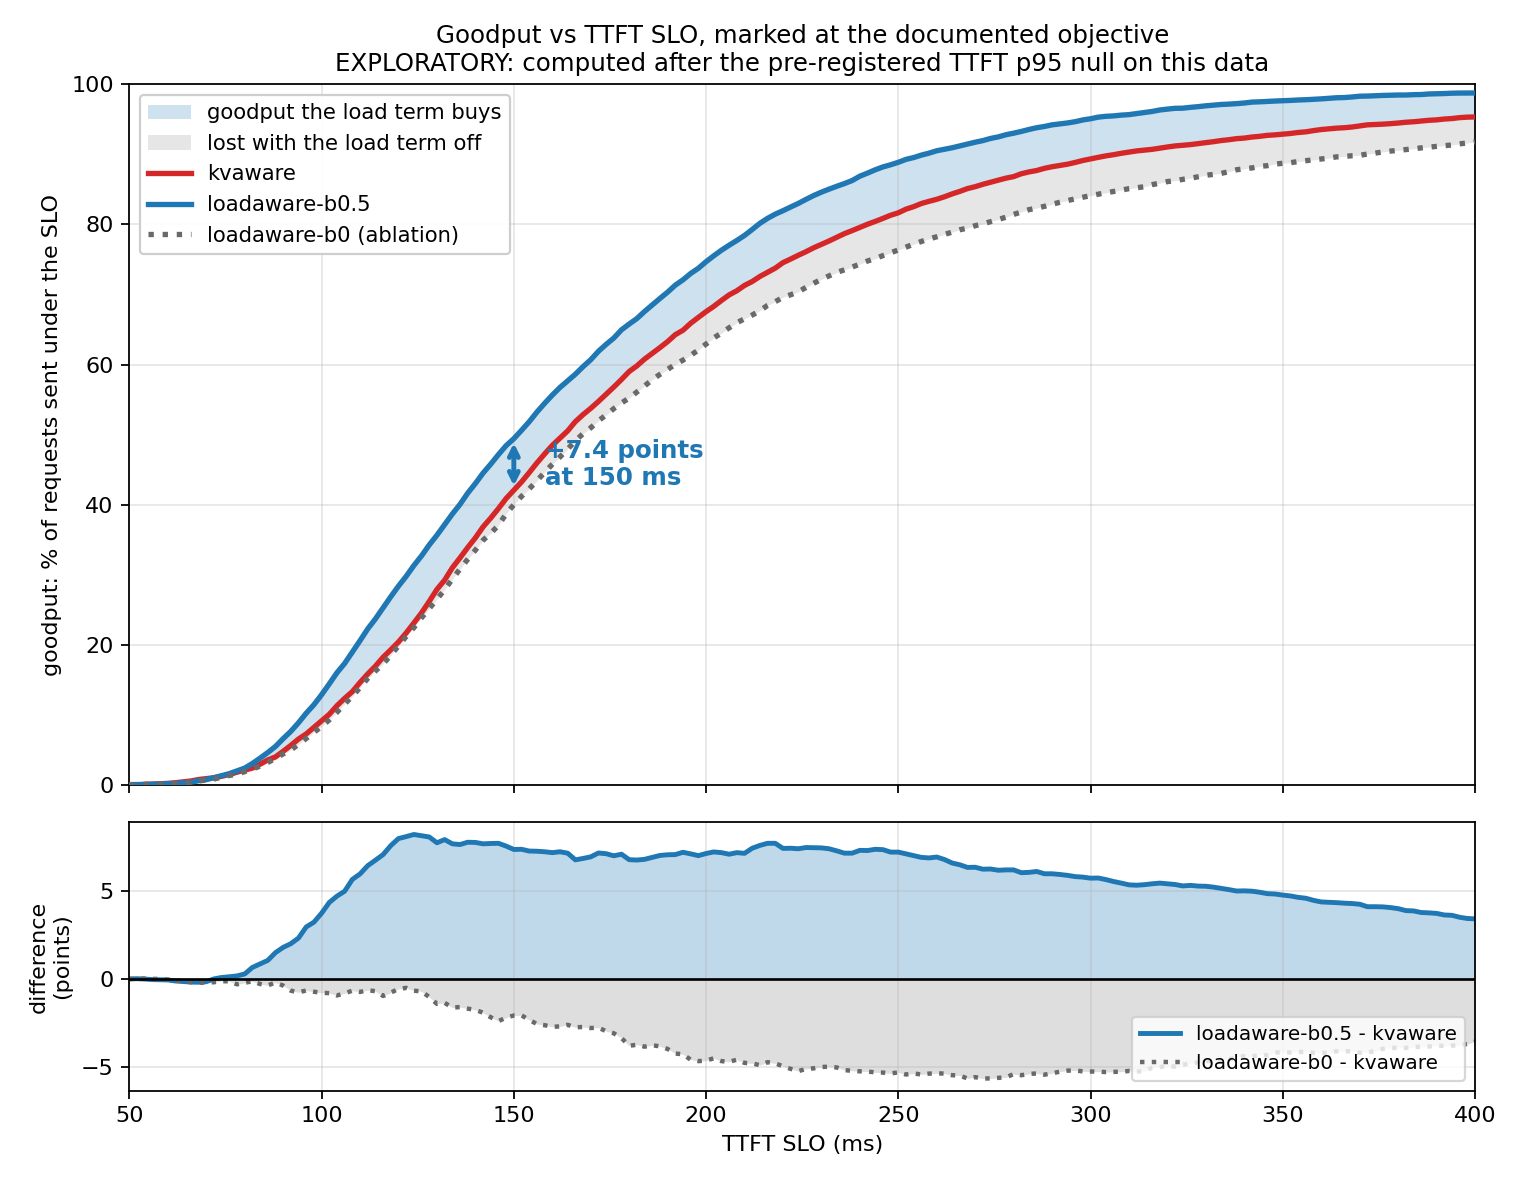
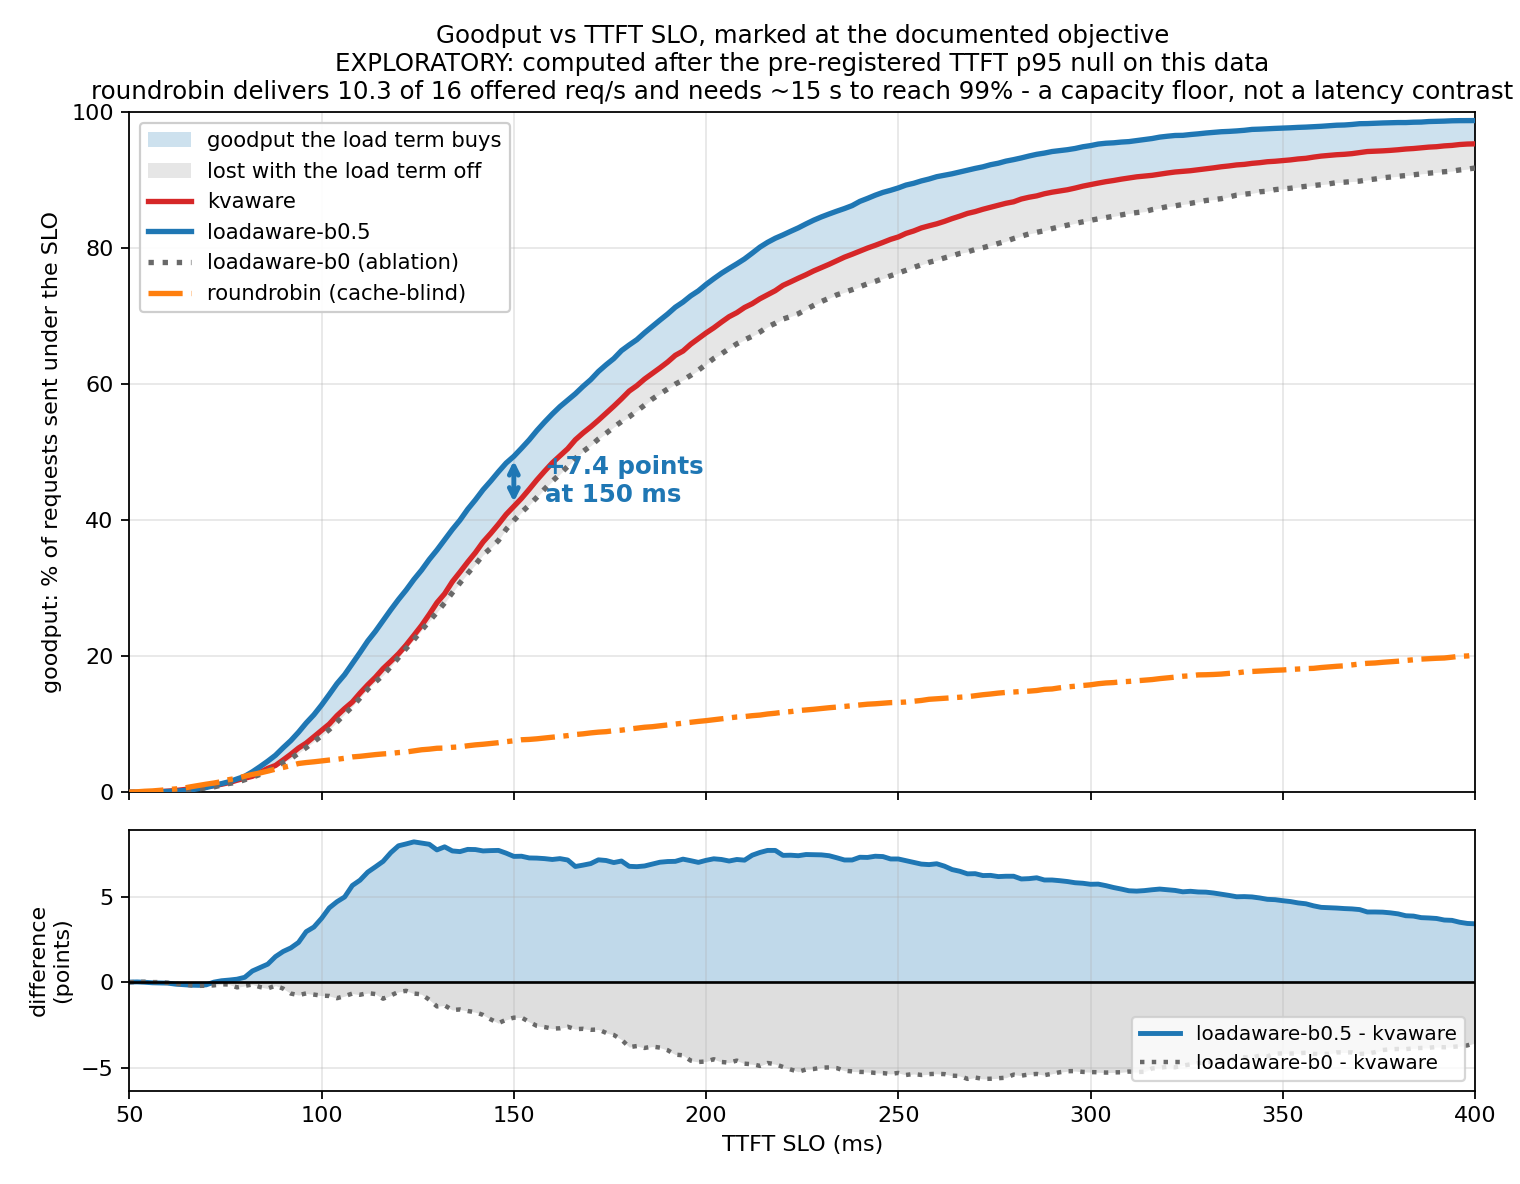
figs: roundrobin as the capacity floor on fig12 (#31)
Goodput's denominator is requests sent, so a saturated arm is comparable here
and on no other figure: falling behind counts as missed rather than being
conditioned away as it would be under p95.

Passed via --comparator rather than as a positional run. In cells it reaches
every figure and its 11 s p95 flattens fig1's whole beta curve; scoped this way
the other eleven regenerate byte-identical.

diff --git a/benchmarks/plot_results.py b/benchmarks/plot_results.py
@@ -26,7 +26,7 @@ from __future__ import annotations
 import argparse
 import json
 import os
-from typing import Dict, List
+from typing import Dict, List, Optional
 
 import matplotlib
 
@@ -625,13 +625,31 @@ def fig_utilization(cells: List[Dict], out: str) -> None:
 GOODPUT_SLOS_MS = range(50, 401, 2)
 
 
-def goodput_curves(cells: List[Dict], cand: str, base: str, ablation: str) -> Dict:
-    """Mean per-seed goodput vs objective, for the three cells fig12 draws.
+def goodput_curves(cells: List[Dict], cand: str, base: str, ablation: str,
+                   comparator: Optional[Dict] = None) -> Dict:
+    """Mean per-seed goodput vs objective, for the cells fig12 draws.
 
     Separated from the drawing so the series is a value fig_goodput can hand on:
     `reproduce.sh` diffs the numbers behind every figure precisely because PNGs
     are not byte-comparable, and a curve that only exists as pixels is a
     committed figure with nothing checking it.
+
+    `comparator` is an already-loaded cell passed in from outside, NOT a name
+    looked up in `cells`, and that is load-bearing. roundrobin is a descriptive
+    framing cell rather than part of the beta grid (benchmarks/README.md, "Sweep
+    design"). Putting it in `cells` puts it in EVERY figure, and its 11 s p95
+    then compresses the y-axis of fig1 - the centerpiece - until the whole beta
+    curve is a flat line on the floor. Measured, not hypothetical: that is what
+    the first attempt at this produced. It reaches exactly one figure by
+    construction, and a sweep with no roundrobin cell still plots.
+
+    Including a SATURATED arm here is deliberate and is sound only because
+    goodput's denominator is requests SENT. roundrobin delivers 10.31 of 16
+    offered req/s, so a p95 contrast against it compares arms carrying different
+    load and flatters it by conditioning on the requests that finished. Goodput
+    does not condition: every arm was offered the identical 500-request frozen
+    workload at the same Poisson rate, and falling behind simply counts as
+    missed. This is the one figure where the saturated arm belongs.
     """
     curves = {}
     for role, name in (("baseline", base), ("candidate", cand), ("ablation", ablation)):
@@ -646,18 +664,30 @@ def goodput_curves(cells: List[Dict], cand: str, base: str, ablation: str) -> Di
             100 * sum(goodput(t, n, ms / 1000) for t, n in by_seed.values()) / len(by_seed)
             for ms in GOODPUT_SLOS_MS
         ]
+    if comparator:
+        by_seed = read_seed_ttfts(comparator["dir"])
+        curves["comparator"] = [
+            100 * sum(goodput(t, n, ms / 1000) for t, n in by_seed.values()) / len(by_seed)
+            for ms in GOODPUT_SLOS_MS
+        ]
     curves["slo_ms"] = list(GOODPUT_SLOS_MS)
     return curves
 
 
 def fig_goodput(cells: List[Dict], out: str, cand: str, base: str = "kvaware",
-                ablation: str = "loadaware-b0") -> Dict:
+                ablation: str = "loadaware-b0",
+                comparator: Optional[Dict] = None) -> Dict:
     """Goodput against the TTFT objective: baseline, headline arm, ablation.
 
     Three cells and no more. Every arm on one axes turns a 7-point gap on a
     0-100 scale into five near-coincident lines, and the argument this figure
     carries has exactly three terms: what the baseline serves, what the load
     term adds, and that the addition disappears when the load term is off.
+
+    A fourth line is drawn when a `roundrobin` cell is present. It is the floor
+    the two cache-aware policies are standing on, and it belongs on THIS figure
+    rather than beside a p95 - see goodput_curves for why a saturated arm is
+    comparable here and nowhere else.
 
     The lower panel is the same difference on its own scale. Without it the gap
     is legible only where the curves are steep; with it the effect is a shape a
@@ -673,7 +703,7 @@ def fig_goodput(cells: List[Dict], out: str, cand: str, base: str = "kvaware",
     diffs a curve the committed PNG does not show reads exactly like a check
     that passes.
     """
-    curves = goodput_curves(cells, cand, base, ablation)
+    curves = goodput_curves(cells, cand, base, ablation, comparator)
     x = curves["slo_ms"]
     gain = [c - b for b, c in zip(curves["baseline"], curves["candidate"])]
     drop = [a - b for b, a in zip(curves["baseline"], curves["ablation"])]
@@ -694,8 +724,11 @@ def fig_goodput(cells: List[Dict], out: str, cand: str, base: str = "kvaware",
         ("baseline", "tab:red", "-", base),
         ("candidate", "tab:blue", "-", cand),
         ("ablation", "dimgray", ":", f"{ablation} (ablation)"),
+        ("comparator", "tab:orange", "-.",
+         f"{comparator['cell'] if comparator else ''} (cache-blind)"),
     ):
-        top.plot(x, curves[role], color=color, ls=ls, lw=2.4, label=label, zorder=3)
+        if role in curves:
+            top.plot(x, curves[role], color=color, ls=ls, lw=2.4, label=label, zorder=3)
     top.annotate("", xy=(x[mark], curves["candidate"][mark]),
                  xytext=(x[mark], curves["baseline"][mark]),
                  arrowprops=dict(arrowstyle="<->", color="tab:blue", lw=2.2))
@@ -706,9 +739,17 @@ def fig_goodput(cells: List[Dict], out: str, cand: str, base: str = "kvaware",
     top.set_ylim(0, 100)
     top.grid(alpha=0.3)
     top.legend(loc="upper left", fontsize=9.5, framealpha=0.95)
+    subtitle = ""
+    if "comparator" in curves:
+        # Stated on the image: roundrobin is measured PAST ITS OWN KNEE, and a
+        # reader who takes its curve for a latency result rather than a capacity
+        # one has been misled by a figure that had room to say so.
+        subtitle = ("\nroundrobin delivers 10.3 of 16 offered req/s and needs ~15 s "
+                    "to reach 99% - a capacity floor, not a latency contrast")
     top.set_title(
         "Goodput vs TTFT SLO, marked at the documented objective\n"
-        "EXPLORATORY: computed after the pre-registered TTFT p95 null on this data",
+        "EXPLORATORY: computed after the pre-registered TTFT p95 null on this data"
+        + subtitle,
         fontsize=11,
     )
 
@@ -780,6 +821,10 @@ def main() -> None:
     ap.add_argument("--dump-data", default=None,
                     help="also write the series behind the figures as JSON, for "
                          "scripts/reproduce.sh to diff (PNGs are not byte-comparable)")
+    ap.add_argument("--comparator", default=None,
+                    help="run dir of a descriptive framing cell (roundrobin). Drawn on "
+                         "fig12 ONLY and deliberately NOT added to the positional runs: "
+                         "in `cells` its 11 s p95 flattens fig1's whole beta curve.")
     ap.add_argument("--cand", required=True,
                     help="headline loadaware cell, e.g. loadaware-b0.5 - the arm the "
                          "pre-registration names as the comparison of record")
@@ -805,7 +850,8 @@ def main() -> None:
     fig_inflight_vs_time(cells, os.path.join(args.out, "fig11-inflight-vs-time.png"),
                          cand=args.cand)
     goodput_series = fig_goodput(cells, os.path.join(args.out, "fig12-goodput.png"),
-                                 cand=args.cand)
+                                 cand=args.cand,
+                                 comparator=load(args.comparator) if args.comparator else None)
     if args.dump_data:
         dump_data(cells, args.dump_data, goodput_series)
     print(f"wrote figures to {args.out}")

diff --git a/CHANGELOG.md b/CHANGELOG.md
@@ -8,6 +8,26 @@ with a pointer to the evidence — those matter as much as code.
 
 ## [Unreleased]
 
+## 2026-08-06 (fig12) - roundrobin joins the goodput figure (#31)
+
+### Added
+- **`roundrobin` on `fig12-goodput.png`** as a fourth line, and its curve in
+  `results/expected/figure-data.json` so `reproduce.sh` checks it. 7.6% of requests under
+  150 ms against `kvaware` 42.0% and `loadaware-b0.5` 49.4%.
+- `plot_results.py --comparator <run-dir>` and `COMPARATOR` in `reproduce.sh`.
+
+### Decided
+- **Goodput is the one figure a SATURATED arm belongs on, and p95 is not.** Goodput's
+  denominator is requests *sent*: every arm was offered the identical 500-request frozen
+  workload at the same Poisson rate, so `roundrobin` delivering 10.31 of 16 req/s simply
+  counts as missed. A p95 contrast instead conditions on the requests that finished, which
+  flatters the arm that fell behind. The figure caption states the 10.3-of-16 delivery and
+  the ~15 s needed to reach 99%, so the curve cannot be read as a latency result.
+- **The framing cell is passed via `--comparator`, never as a positional run.** In `cells` it
+  reaches every figure, and its 11 s p95 compresses fig1 - the centerpiece - until the whole
+  beta curve is a flat line on the floor. Measured, not hypothetical: that is what the first
+  attempt produced. Scoped to fig12, the other eleven figures regenerate byte-identical.
+
 ## 2026-08-06 (roundrobin) - the third comparator, at n=20 (#31)
 
 ### Added
